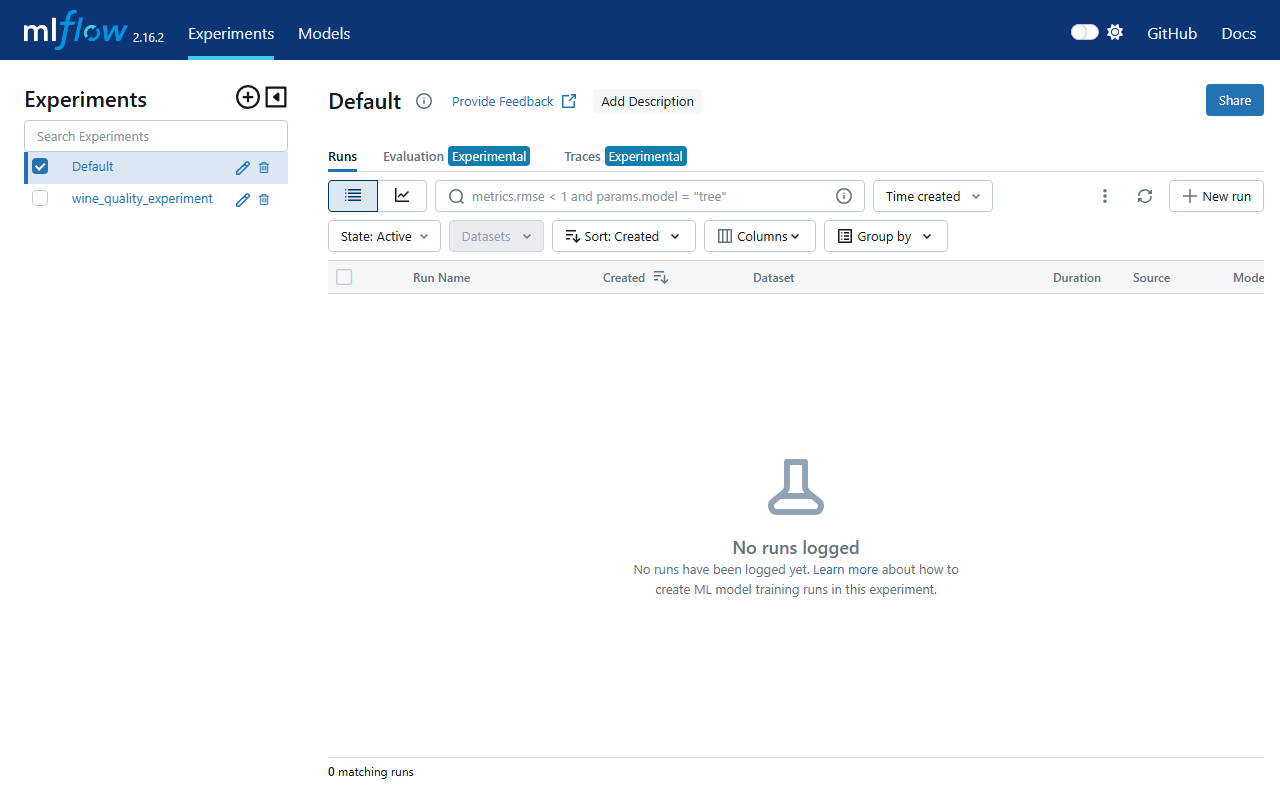
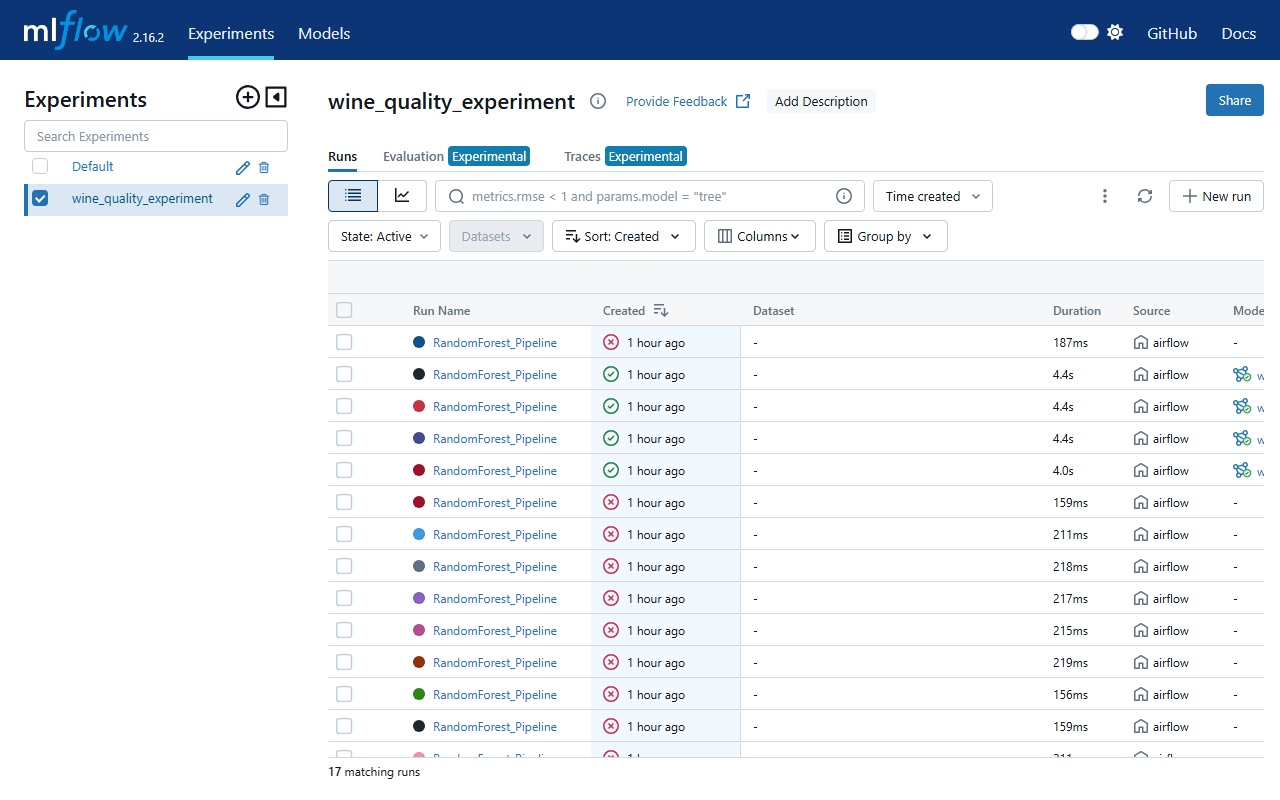
docs: update screenshots to show actual chat and correct mlflow experiment

diff --git a/take_screenshots.py b/take_screenshots.py
@@ -1,0 +1,38 @@
+import asyncio
+from playwright.async_api import async_playwright
+
+async def main():
+    async with async_playwright() as p:
+        browser = await p.chromium.launch()
+        page = await browser.new_page(viewport={'width': 1280, 'height': 800})
+        
+        print('Airflow')
+        await page.goto('http://localhost:8080')
+        try:
+            await page.fill('input#username', 'admin')
+            await page.fill('input#password', 'admin')
+            await page.click('button[type="submit"]')
+            await page.wait_for_timeout(3000)
+        except Exception as e:
+            print("Login failed or not needed:", e)
+        await page.screenshot(path='screenshots/airflow.png')
+        
+        print('MLflow')
+        await page.goto('http://localhost:5000')
+        await page.wait_for_timeout(3000)
+        await page.screenshot(path='screenshots/mlflow.png')
+        
+        print('Prometheus')
+        await page.goto('http://localhost:9090/alerts')
+        await page.wait_for_timeout(3000)
+        await page.screenshot(path='screenshots/prometheus.png')
+        
+        print('Alertmanager')
+        await page.goto('http://localhost:9093')
+        await page.wait_for_timeout(3000)
+        await page.screenshot(path='screenshots/alertmanager.png')
+        
+        await browser.close()
+
+if __name__ == '__main__':
+    asyncio.run(main())

diff --git a/README.md b/README.md
@@ -30,9 +30,10 @@ A production-ready machine learning monitoring system using MLFlow, Prometheus, 
 Captured against the running stack (docker compose up -d).
 
 ### 1. Alerts received in Telegram
-*(Lưu ý: Bạn hãy tự chụp ảnh màn hình ứng dụng Telegram của bạn tại Group/ChatID -5263098451 sau khi chạy test và thay thế file screenshots/telegram_alert.png nhé)*
 
-![Telegram alerts](screenshots/telegram_alert_1.png)
+![Telegram alerts 1](screenshots/telegram_alert_1.png)
+
+![Telegram alerts 2](screenshots/telegram_alert_2.png)
 
 ### 2. Prometheus → Alertmanager
 
